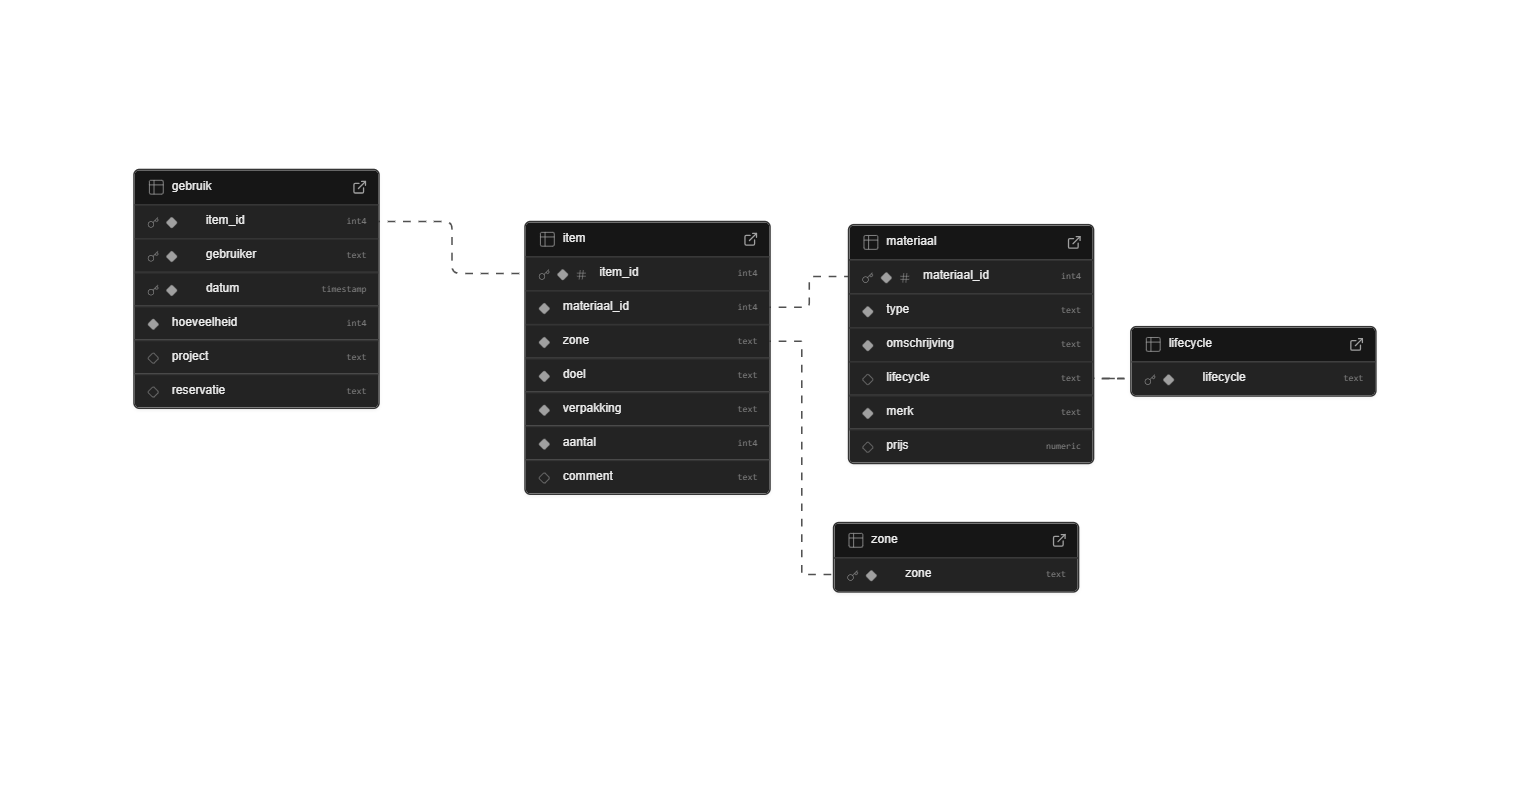
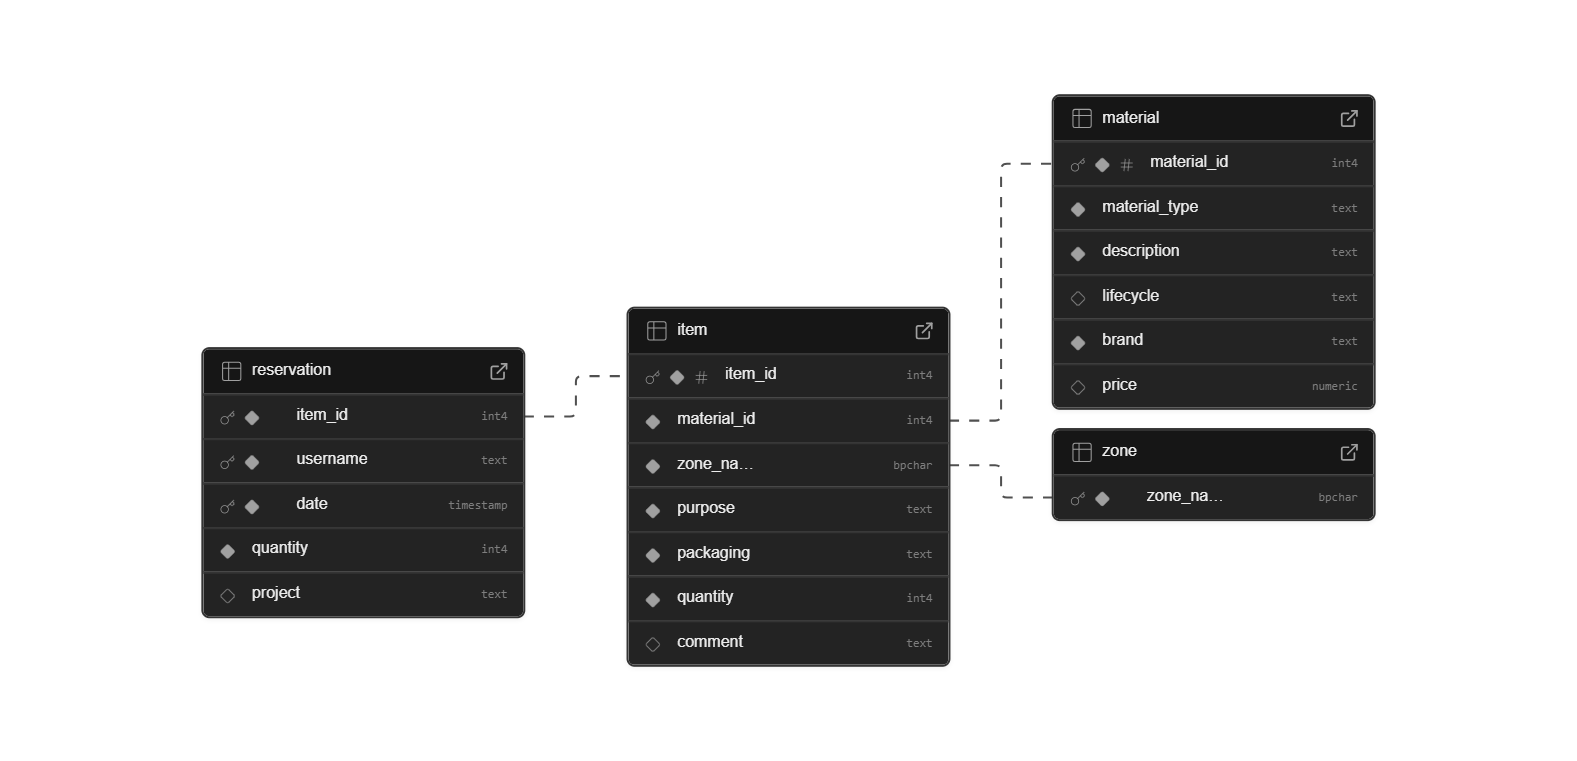
Update (completed)

diff --git a/migrations/versions/9bcf13106938_full_rebuild_new_models.py b/migrations/versions/9bcf13106938_full_rebuild_new_models.py
@@ -1,0 +1,68 @@
+"""FULL REBUILD: new models
+
+Revision ID: 9bcf13106938
+Revises: 
+Create Date: 2025-11-21 21:45:12.937728
+
+"""
+from alembic import op
+import sqlalchemy as sa
+
+
+# revision identifiers, used by Alembic.
+revision = '9bcf13106938'
+down_revision = None
+branch_labels = None
+depends_on = None
+
+
+def upgrade():
+    # ### commands auto generated by Alembic - please adjust! ###
+    op.create_table('material',
+    sa.Column('material_id', sa.Integer(), nullable=False),
+    sa.Column('material_type', sa.String(), nullable=False),
+    sa.Column('description', sa.String(), nullable=False),
+    sa.Column('brand', sa.String(), nullable=False),
+    sa.Column('price', sa.Float(), nullable=True),
+    sa.Column('lifecycle', sa.String(), nullable=True),
+    sa.PrimaryKeyConstraint('material_id'),
+    sa.UniqueConstraint('material_type', 'description', name='UC1')
+    )
+    op.create_table('zone',
+    sa.Column('zone_name', sa.String(length=3), nullable=False),
+    sa.PrimaryKeyConstraint('zone_name')
+    )
+    op.create_table('item',
+    sa.Column('item_id', sa.Integer(), nullable=False),
+    sa.Column('material_id', sa.Integer(), nullable=False),
+    sa.Column('zone_name', sa.String(length=3), nullable=False),
+    sa.Column('purpose', sa.String(), nullable=False),
+    sa.Column('packaging', sa.String(), nullable=False),
+    sa.Column('quantity', sa.Integer(), nullable=False),
+    sa.Column('comment', sa.String(), nullable=True),
+    sa.CheckConstraint("packaging IN ('open', 'closed', 'none')", name='CC3'),
+    sa.CheckConstraint("purpose IN ('keep', 'sell', 'dispose')", name='CC2'),
+    sa.ForeignKeyConstraint(['material_id'], ['material.material_id'], onupdate='CASCADE', ondelete='CASCADE'),
+    sa.ForeignKeyConstraint(['zone_name'], ['zone.zone_name'], onupdate='CASCADE', ondelete='CASCADE'),
+    sa.PrimaryKeyConstraint('item_id'),
+    sa.UniqueConstraint('material_id', 'zone_name', 'purpose', 'packaging', name='UC2')
+    )
+    op.create_table('reservation',
+    sa.Column('item_id', sa.Integer(), nullable=False),
+    sa.Column('username', sa.String(), nullable=False),
+    sa.Column('date', sa.DateTime(), server_default=sa.text('CURRENT_TIMESTAMP'), nullable=False),
+    sa.Column('quantity', sa.Integer(), nullable=False),
+    sa.Column('project', sa.String(), nullable=True),
+    sa.ForeignKeyConstraint(['item_id'], ['item.item_id'], onupdate='CASCADE', ondelete='CASCADE'),
+    sa.PrimaryKeyConstraint('item_id', 'username', 'date')
+    )
+    # ### end Alembic commands ###
+
+
+def downgrade():
+    # ### commands auto generated by Alembic - please adjust! ###
+    op.drop_table('reservation')
+    op.drop_table('item')
+    op.drop_table('zone')
+    op.drop_table('material')
+    # ### end Alembic commands ###

diff --git a/app/models.py b/app/models.py
@@ -61,7 +61,7 @@ class Item(db.Model):
 
 class Reservation(db.Model):
     item_id = db.Column(db.Integer, db.ForeignKey('item.item_id', ondelete="CASCADE", onupdate="CASCADE"), primary_key=True)
-    user = db.Column(db.String, primary_key=True)
+    username = db.Column(db.String, primary_key=True)
     date = db.Column(db.DateTime, server_default=db.func.current_timestamp(), primary_key=True) #timestamp DEFAULT CURRENT_TIMESTAMP (SQL)
     quantity = db.Column(db.Integer, nullable=False)
     project = db.Column(db.String)
@@ -69,4 +69,4 @@ class Reservation(db.Model):
     #geen relationship nodig, want we navigeren al van item → reservation
 
     def __repr__(self):
-        return f"<Reservation: item={self.item_id}, user={self.user}, date={self.date}>" #PK
+        return f"<Reservation: item={self.item_id}, user={self.username}, date={self.date}>" #PK

diff --git a/app/routes.py b/app/routes.py
@@ -5,7 +5,6 @@ main = Blueprint('main', __name__)
 
 #Bovenstaande code niet aanpassen!!!
 
-
 # Eerst User-Stories!
 #----------------------HOME--------------------------
 @main.route('/', methods=['GET'])
